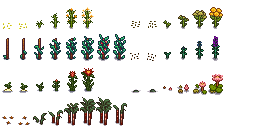
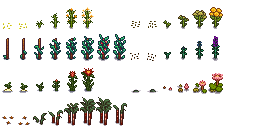
fixed some art, added pt-BR translation for tea,fixed tearrific compatability for tea

Changed region(s): [[0.6875, 0.5625, 0.875, 0.75]]

diff --git a/Byproducts/Byproducts/obj/Debug/net6.0/Byproducts.AssemblyInfo.cs b/Byproducts/Byproducts/obj/Debug/net6.0/Byproducts.AssemblyInfo.cs
@@ -13,7 +13,7 @@ using System.Reflection;
 [assembly: System.Reflection.AssemblyCompanyAttribute("Byproducts")]
 [assembly: System.Reflection.AssemblyConfigurationAttribute("Debug")]
 [assembly: System.Reflection.AssemblyFileVersionAttribute("1.0.0.0")]
-[assembly: System.Reflection.AssemblyInformationalVersionAttribute("1.0.0+e8c7d9e4235d0bdcb48c2d56b5d5907b76fe3d9f")]
+[assembly: System.Reflection.AssemblyInformationalVersionAttribute("1.0.0+f1e588931d5da619c3a08ce90944a87a7da7f79d")]
 [assembly: System.Reflection.AssemblyProductAttribute("Byproducts")]
 [assembly: System.Reflection.AssemblyTitleAttribute("Byproducts")]
 [assembly: System.Reflection.AssemblyVersionAttribute("1.0.0.0")]
